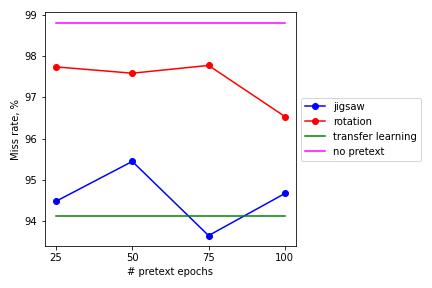
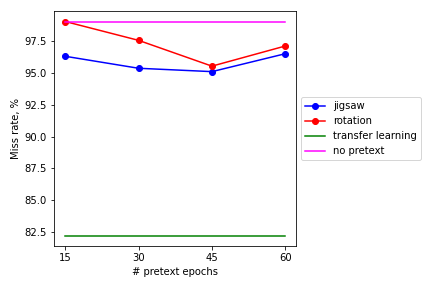
new results

diff --git a/impl/main.py b/impl/main.py
@@ -4,26 +4,24 @@ from util.evaluation import eval_no_pretext, eval_jigsaw, eval_rotation, eval_ef
 from util.config import PRETEXT_EPOCHS, DOWNSTREAM_EPOCHS
 
 
-def main(task, iterations, pretext_epochs):
+def main(task, iterations, pretext_epochs, downstream_epochs):
     if task not in ['rotation', 'jigsaw', 'none', 'transfer']:
-        raise Exception(f'Unknown task {task}')
+        raise ValueError(f'Unknown task {task}')
 
     tpu = init_tpu()
     print(f'Evaluating {task}')
     print('-' * 50)
     if task == 'rotation':
-        eval_rotation(strategy=tpu, pretext_epochs=pretext_epochs, downstream_epochs=DOWNSTREAM_EPOCHS,
-                      iterations=iterations)
+        eval_rotation(strategy=tpu, pretext_epochs=pretext_epochs, downstream_epochs=downstream_epochs, iterations=iterations)
         return
     if task == 'jigsaw':
-        eval_jigsaw(strategy=tpu, pretext_epochs=pretext_epochs, downstream_epochs=DOWNSTREAM_EPOCHS,
-                    iterations=iterations)
+        eval_jigsaw(strategy=tpu, pretext_epochs=pretext_epochs, downstream_epochs=downstream_epochs, iterations=iterations)
         return
     if task == 'none':
-        eval_no_pretext(strategy=tpu, downstream_epochs=DOWNSTREAM_EPOCHS, iterations=iterations)
+        eval_no_pretext(strategy=tpu, downstream_epochs=downstream_epochs, iterations=iterations)
         return
     if task == 'transfer':
-        eval_eff_net_pre_trained(strategy=tpu, downstream_epochs=DOWNSTREAM_EPOCHS, iterations=iterations)
+        eval_eff_net_pre_trained(strategy=tpu, downstream_epochs=downstream_epochs, iterations=iterations)
         return
 
 
@@ -37,15 +35,21 @@ def parse_args():
     parser.add_argument(
         '--iterations',
         type=int,
-        help='Iterations to eval',
+        help='Number of iterations to eval',
         default=1
     )
     parser.add_argument(
         '--pretext-epochs',
         type=int,
         nargs='*',
-        help='Pretext epochs',
+        help='Pretext epochs number',
         default=PRETEXT_EPOCHS
+    )
+    parser.add_argument(
+        '--downstream-epochs',
+        type=int,
+        help='Downstream epochs number',
+        default=DOWNSTREAM_EPOCHS
     )
     return parser.parse_args()
 
@@ -56,4 +60,5 @@ if __name__ == '__main__':
         task=args.task,
         iterations=args.iterations,
         pretext_epochs=args.pretext_epochs,
+        downstream_epochs=args.downstream_epochs
     )

diff --git a/paper/results.tex b/paper/results.tex
@@ -1,25 +1,47 @@
 \newpage
+
+
 \section{Results}
 
 
 \begin{table}[ht]
     \begin{tabular}{|r|r|r|}
         \hline
-        Pre-training & \overline{Accuracy}, \% & \overline{Miss \; rate} \\
+        Pre-training & \overline{Accuracy}, \% & \overline{Miss \; rate}, \% \\
         \hline
+        ImageNet     & 65.176                  & 82.195                      \\
+        None         & 37.285                  & 99.017                      \\
         \hline
     \end{tabular}
     \caption{\label{tab:table-0}Baseline results}
 \end{table}
 
-\begin{table}[h]
+\begin{table}[ht]
     \begin{tabular}{|r|r|r|}
         \hline
-        {}           & \sigma (std \; dev) & s (variance) \\
+        \# Pre-text epochs & \overline{Accuracy}, \% & \overline{Miss \; rate}, \% \\
         \hline
+        15                 & 44.312                  & 96.325                      \\
+        30                 & 44.482                  & 95.380                      \\
+        45                 & 44.751                  & 95.115                      \\
+        60                 & 42.603                  & 96.527                      \\
         \hline
     \end{tabular}
-    \caption{\label{tab:table-00}Statistical analysis for for EffNet pre-trained on Image Net}
+    \caption{\label{tab:table-1}Jigsaw results}
+\end{table}
+
+\begin{table}[ht]
+    \begin{tabular}{|r|r|r|}
+        \hline
+        \# Pre-text epochs & \overline{Accuracy}, \% & \overline{Miss \; rate}, \% \\
+        \hline
+        15                 & 41.889                  & 99.067                      \\
+        30                 & 43.865                  & 97.581                      \\
+        45                 & 43.865                  & 95.547                      \\
+        60                 & 43.290                  & 97.135                      \\
+        \hline
+    \end{tabular}
+    \caption{\label{tab:table-2}Rotation results}
 \end{table}
 
 

diff --git a/paper/intro.tex b/paper/intro.tex
@@ -156,7 +156,7 @@ Number of training epochs was varied in [15, 30, 45] for pretext training, Numbe
 \\
 Reserved images were given to NN, the ones which were correctly classified saved.
 Then for each of saved (previously correctly classified images) adversarial image was created using FGSM with $\epsilon = 0.01$.
-Number of miss-classification was recorded.
+Number of miss-classifications was recorded.
 \\
 In order to compare how pretext tasks perform in comparison with other popular state of the art pre-training technics perform,
 the result were compared with EffNet trained for 30 epochs without pretext task and EffNet pre-trained for image classification on ImageNet.

diff --git a/paper/discussion.tex b/paper/discussion.tex
@@ -8,8 +8,7 @@ vulnerability against adversarial attacks.
 \begin{itemize}
     \item both pretext task reduced miss-classification rate a little
     \item both pretext task have improved accuracy a little
-    \item both pretext tasks increased $\epsilon$ a little
-    \item accuracy, miss rate, $epsilon$ are still far from competing with the values for EffNet pre-trained on ImageNet
+    \item accuracy and miss rate are still far from competing with the values for EffNet pre-trained on ImageNet
 \end{itemize}
 
 \paragraph{Interpretation}

diff --git a/impl/util/utils.py b/impl/util/utils.py
@@ -72,4 +72,4 @@ def prediction_round(dataset: Dataset, model) -> (np.ndarray, np.ndarray):
 
 
 def decode_label(ds: Dataset, label: int):
-    return ds.class_names[label]
+    return np.take(ds.class_names, label)

diff --git a/impl/util/config.py b/impl/util/config.py
@@ -12,7 +12,8 @@ DOWNSTREAM_EPOCHS = 30
 PRETEXT_EPOCHS = [
     15,
     30,
-    45
+    45,
+    60
 ]
 
 EPSILON = 0.01
